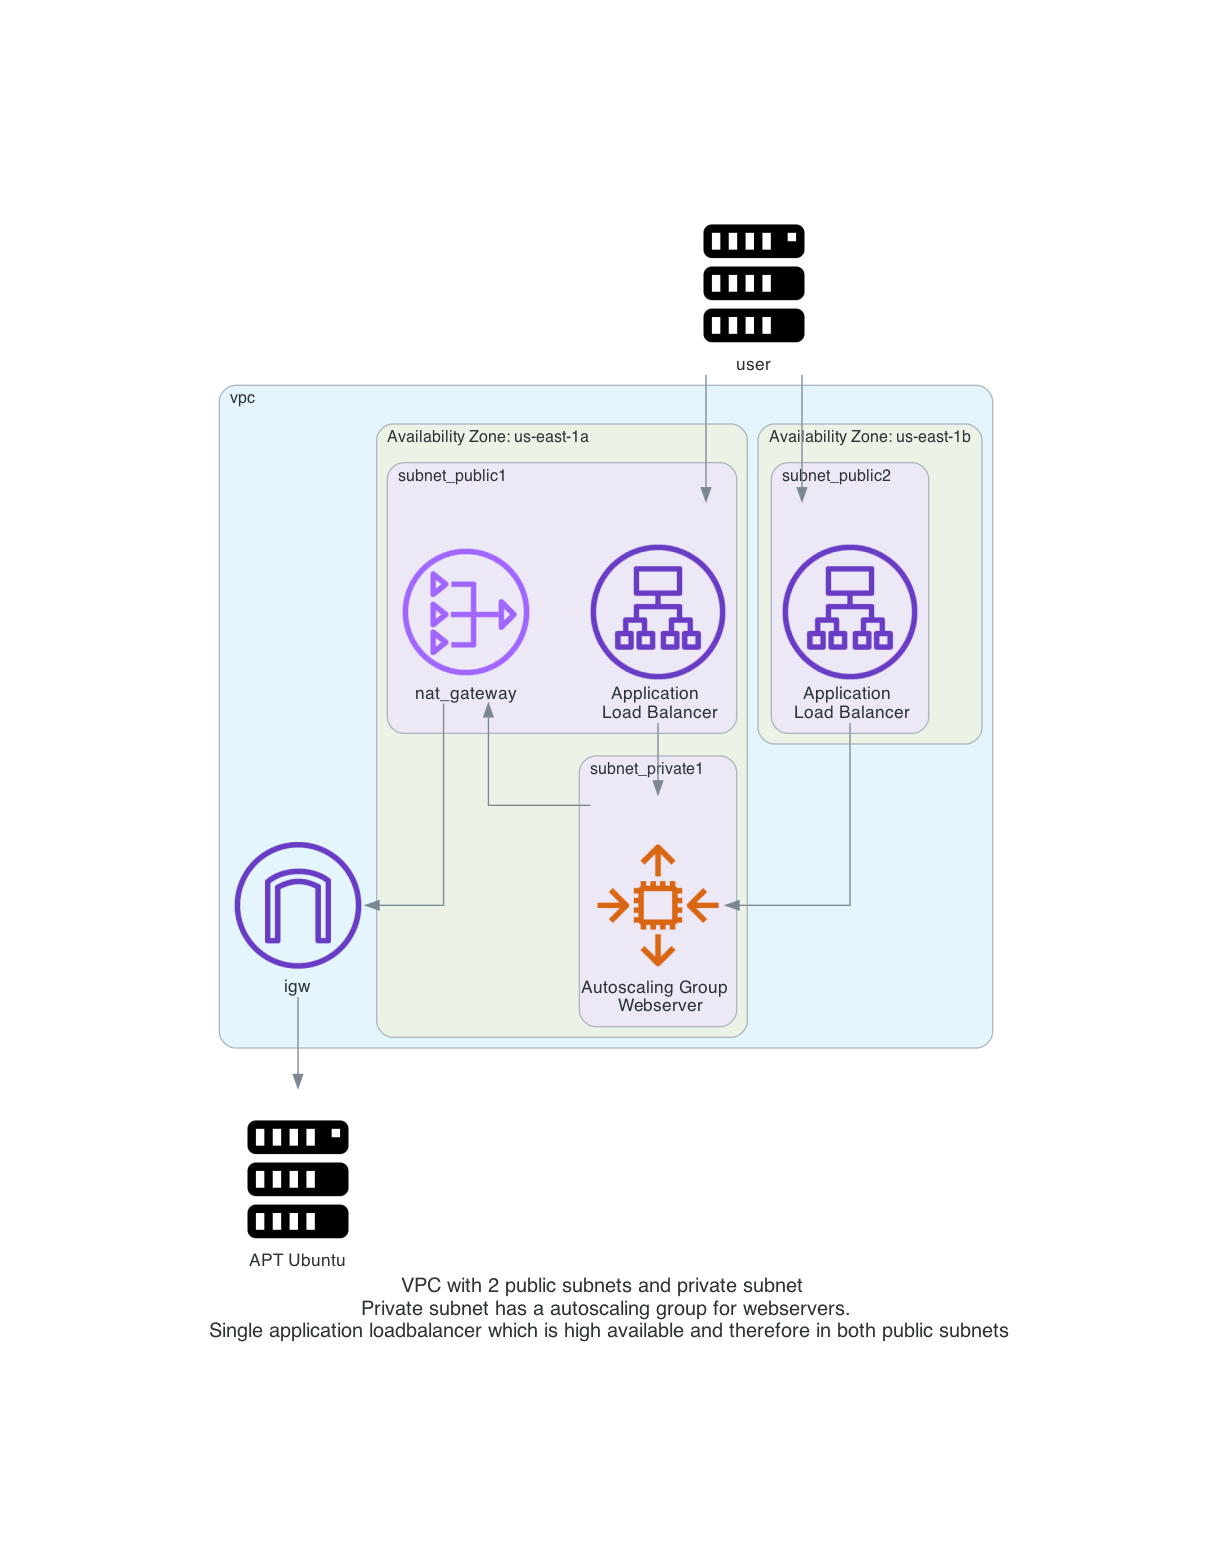
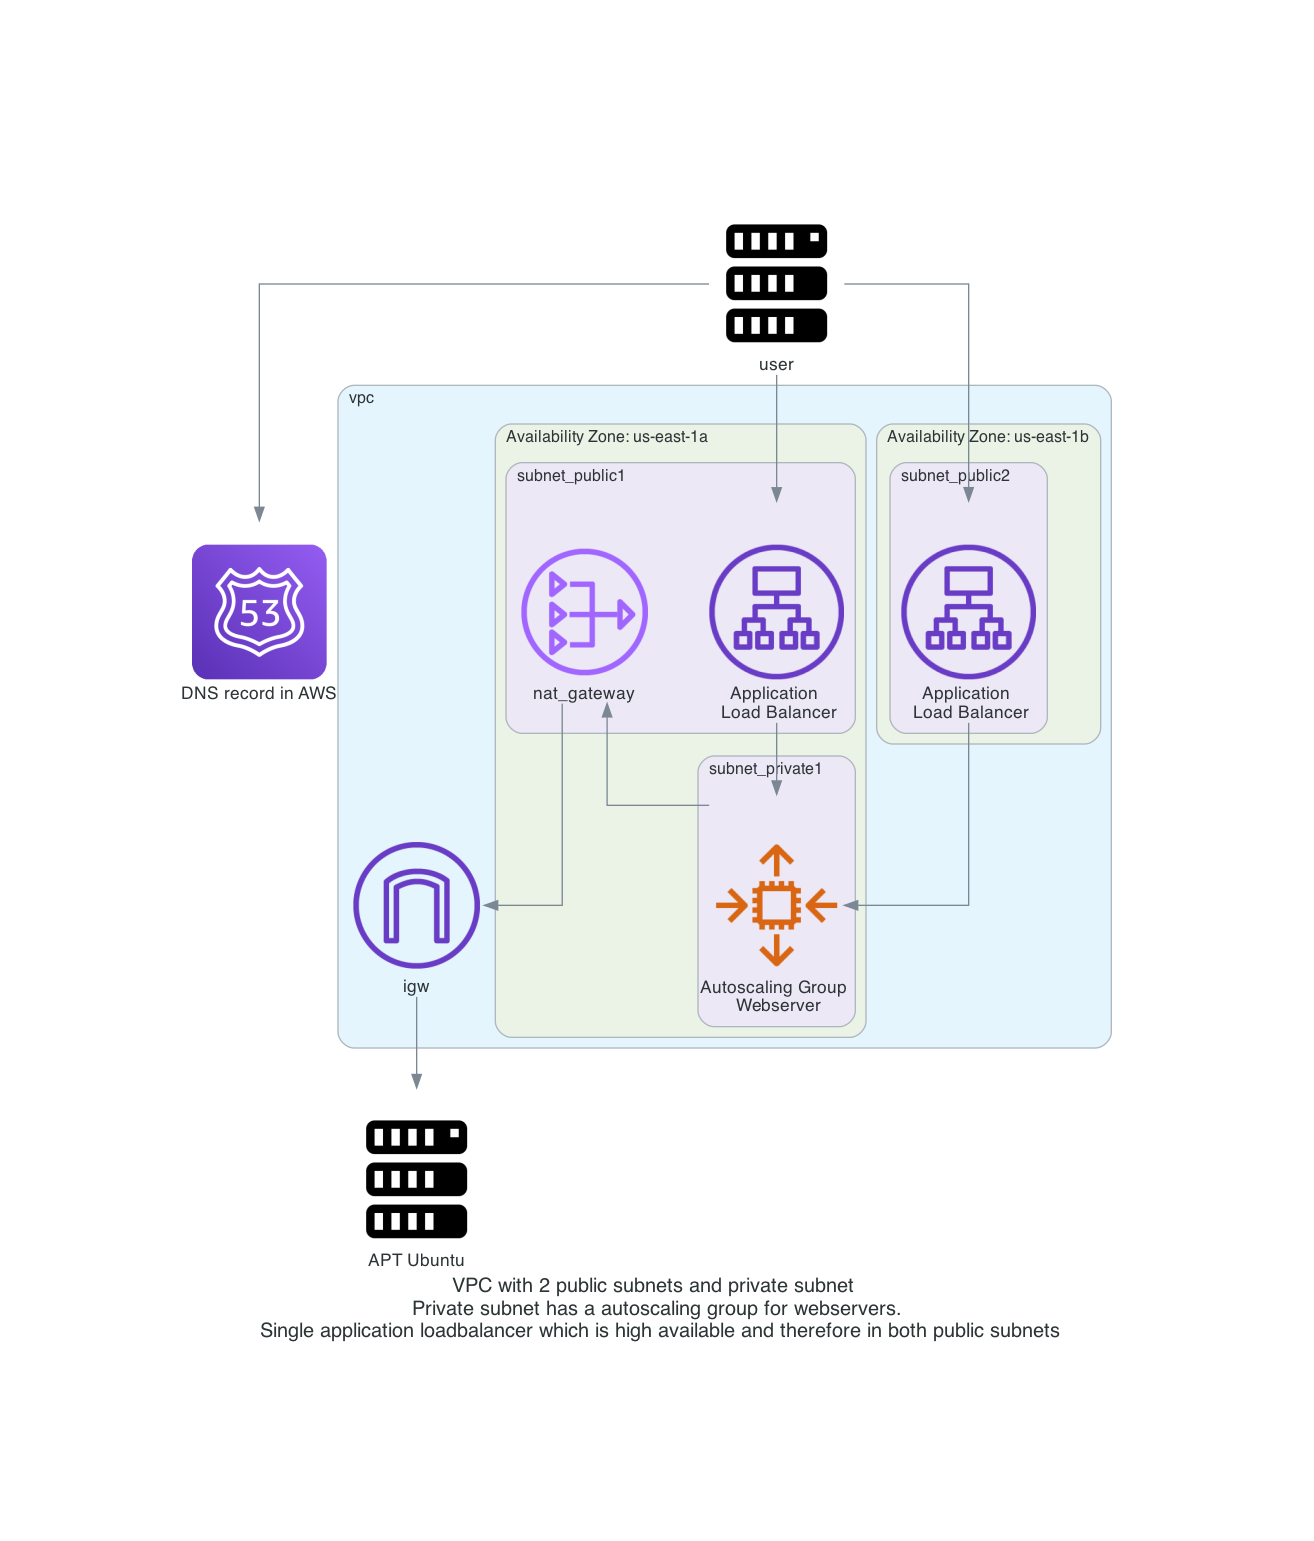
documentation changes

diff --git a/diagram/diagram_vpc_asg.py b/diagram/diagram_vpc_asg.py
@@ -1,6 +1,6 @@
 from diagrams import Cluster, Diagram, Edge
 from diagrams.aws.compute import EC2, EC2AutoScaling
-from diagrams.aws.network import VPC, PrivateSubnet, PublicSubnet, InternetGateway, NATGateway, ElbApplicationLoadBalancer
+from diagrams.aws.network import Route53,VPC, PrivateSubnet, PublicSubnet, InternetGateway, NATGateway, ElbApplicationLoadBalancer
 from diagrams.onprem.compute import Server
 
 # Variables
@@ -18,6 +18,7 @@ with Diagram(
 ) as diag:
     # Non Clustered
     user = Server("user")
+    route53=Route53("DNS record in AWS")
 
     # Cluster 
     with Cluster("vpc"):
@@ -38,9 +39,11 @@ with Diagram(
                 ec2_asg_web_server = EC2AutoScaling("Autoscaling Group \n Webserver")
  
     # Diagram
-    user >> [loadbalancer1, 
-             loadbalancer2] >> ec2_asg_web_server 
+    user >>  route53
+    user >>  [ loadbalancer1, 
+              loadbalancer2] >> ec2_asg_web_server 
 
     ec2_asg_web_server >> nat_gateway >> igw_gateway >> Server("APT Ubuntu")
-
+    
+    route53
 diag

diff --git a/README.md b/README.md
@@ -1,6 +1,6 @@
 # aws_https_loadbalancer_nginx
 
-In this repository you will deploy an auto scaling group with a webserver EC2 behind an application load balancer with certificates with Terraform on AWS. 
+In this repository you will deploy an auto scaling group with a webserver EC2 behind an application load balancer and certificates with Terraform on AWS. 
 
 Steps involved are: 
 - Create a VPC with subnets, routing tables, internet gateway and nat gateway
@@ -13,7 +13,7 @@ Steps involved are:
 
 
 Detailed diagram of the environment:  
-![](diagram/vpc-diagram.png)     
+![](diagram/diagram_vpc_asg.png)     
 
 There is a short [README.md](manual_steps/README.md) on how to do all this manually without Terraform. This is just to give you a better idea on the steps involved. Please use this only if you do not want to use Terraform. 
 
